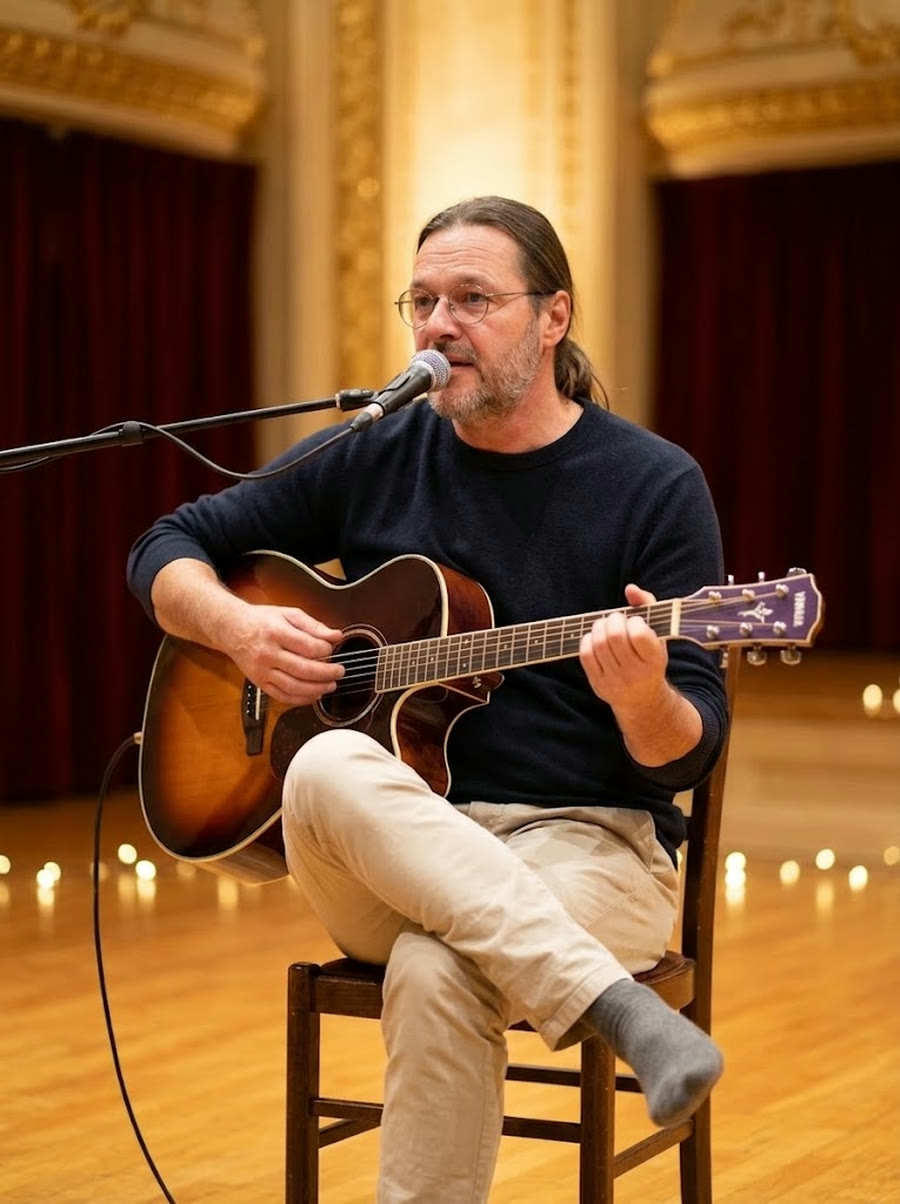
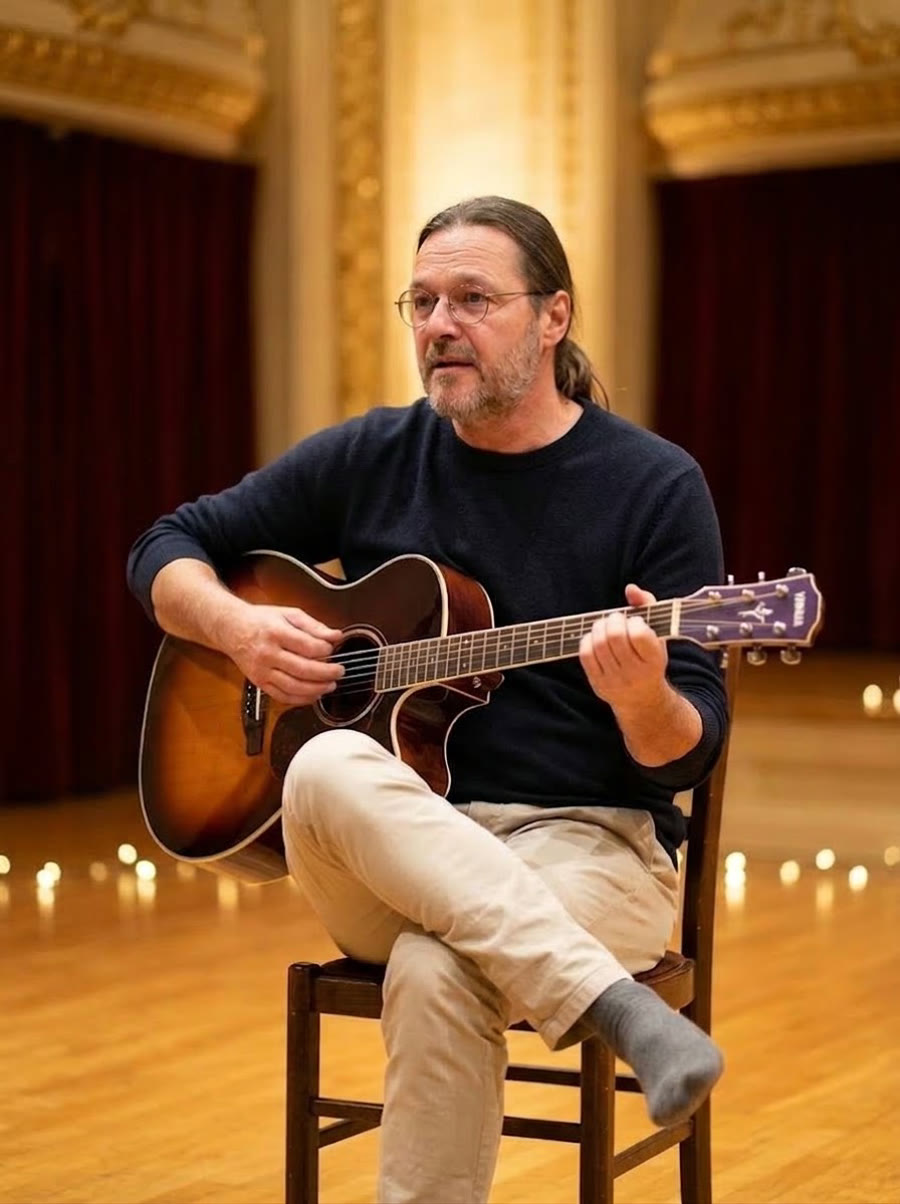
Igor portrait: microphone, stand and cable removed, face and glasses kept (imgtoimg AI Image Editor); previous archived in archive/d-guitar (9.11.2026)
Claude-Session: https://claude.ai/code/session_01NceKU8PKmedvkKm89PySPN

diff --git a/index.html b/index.html
@@ -506,7 +506,7 @@ table.eqt td, table.eqt th { white-space: normal; font-size: 15px; }
     <p class="lead"><span class="en">Seven of us, from Zagreb. The portraits are photographic renderings made from our real photos, all in one concert hall.</span><span class="hr">Sedmero nas, iz Zagreba. Portreti su fotografske izrade iz naših pravih fotografija, svi u istoj koncertnoj dvorani.</span></p>
   </header>
   <img class="band-hero" src="img/band/hero.jpg?v=20261109c" alt="">
-  <div class="players"><figure class="player"><img src="img/band/a-bass.jpg?v=20261109d" alt="" loading="lazy"><figcaption><b>Svemir Vranko</b><span><span class="en">bass guitar · voice</span><span class="hr">bas-gitara · glas</span></span></figcaption></figure><figure class="player"><img src="img/band/b-djembe.jpg" alt="" loading="lazy"><figcaption><b>Marko Boško</b><span><span class="en">djembe</span><span class="hr">džembe</span></span></figcaption></figure><figure class="player"><img src="img/band/c-mridangam.jpg" alt="" loading="lazy"><figcaption><b>Kristian Nasteski</b><span><span class="en">mridangam · harmonium · voice</span><span class="hr">mridangam · harmonij · glas</span></span></figcaption></figure><figure class="player"><img src="img/band/d-guitar.jpg?v=20261109b" alt="" loading="lazy"><figcaption><b>Igor Pavlić</b><span><span class="en">voice · guitar</span><span class="hr">glas · gitara</span></span></figcaption></figure><figure class="player"><img src="img/band/e-voice.jpg" alt="" loading="lazy"><figcaption><b>Tajana Stipetić</b><span><span class="en">voice</span><span class="hr">glas</span></span></figcaption></figure><figure class="player"><img src="img/band/f-nylon.jpg" alt="" loading="lazy"><figcaption><b>Tomislav Tenšek Snoopy</b><span><span class="en">guitar</span><span class="hr">gitara</span></span></figcaption></figure><figure class="player"><img src="img/band/g-bells.jpg" alt="" loading="lazy"><figcaption><b>Petra Belamarić</b><span><span class="en">tambourine</span><span class="hr">tamburin</span></span></figcaption></figure></div>
+  <div class="players"><figure class="player"><img src="img/band/a-bass.jpg?v=20261109d" alt="" loading="lazy"><figcaption><b>Svemir Vranko</b><span><span class="en">bass guitar · voice</span><span class="hr">bas-gitara · glas</span></span></figcaption></figure><figure class="player"><img src="img/band/b-djembe.jpg" alt="" loading="lazy"><figcaption><b>Marko Boško</b><span><span class="en">djembe</span><span class="hr">džembe</span></span></figcaption></figure><figure class="player"><img src="img/band/c-mridangam.jpg" alt="" loading="lazy"><figcaption><b>Kristian Nasteski</b><span><span class="en">mridangam · harmonium · voice</span><span class="hr">mridangam · harmonij · glas</span></span></figcaption></figure><figure class="player"><img src="img/band/d-guitar.jpg?v=20261109e" alt="" loading="lazy"><figcaption><b>Igor Pavlić</b><span><span class="en">voice · guitar</span><span class="hr">glas · gitara</span></span></figcaption></figure><figure class="player"><img src="img/band/e-voice.jpg" alt="" loading="lazy"><figcaption><b>Tajana Stipetić</b><span><span class="en">voice</span><span class="hr">glas</span></span></figcaption></figure><figure class="player"><img src="img/band/f-nylon.jpg" alt="" loading="lazy"><figcaption><b>Tomislav Tenšek Snoopy</b><span><span class="en">guitar</span><span class="hr">gitara</span></span></figcaption></figure><figure class="player"><img src="img/band/g-bells.jpg" alt="" loading="lazy"><figcaption><b>Petra Belamarić</b><span><span class="en">tambourine</span><span class="hr">tamburin</span></span></figcaption></figure></div>
   <footer>Santoshi Kirtan Band · Zagreb</footer>
 </div>
 </section>
